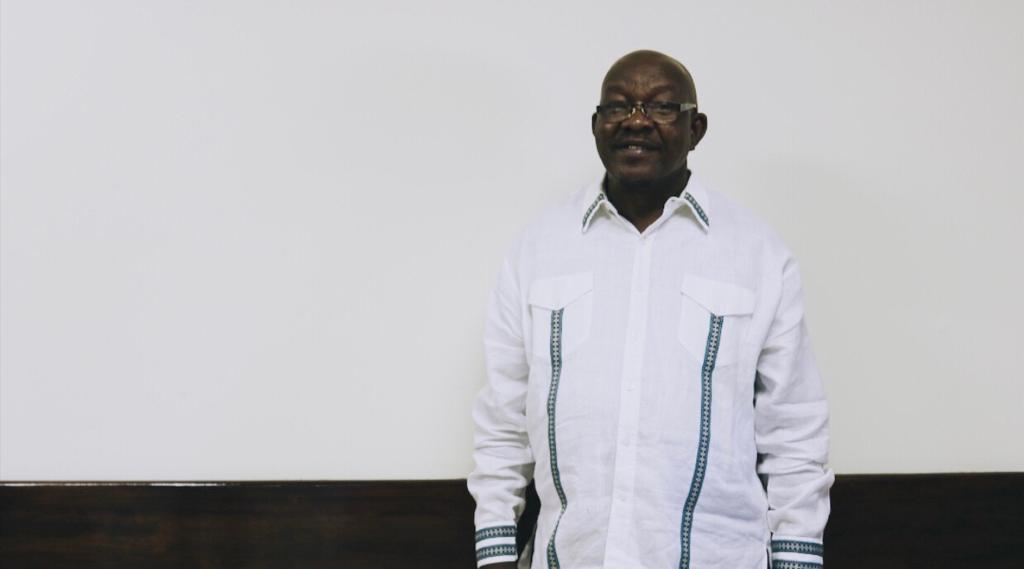
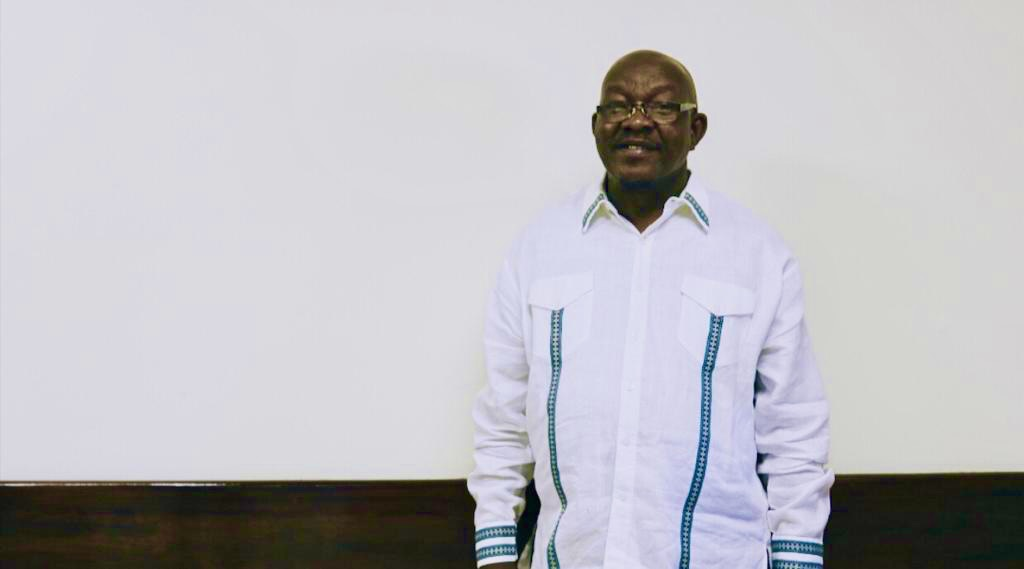
Website updates

diff --git a/index.html b/index.html
@@ -58,7 +58,7 @@
             </div>
             <h1 class="reveal reveal-delay-1">Your Health Is<br />Our Priority.</h1>
             <p class="hero-desc reveal reveal-delay-2">
-              Two clinics based in Thabong and Kutlwanong. One purpose. Mantwa Clinics serves the communities of Lejweleputswa District with honest, accessible care, for every patient.
+              Two clinics based in Thabong and Kutlwanong with one purpose. Mantwa Clinics serves the communities of Lejweleputswa District with honest, accessible care, for every patient.
             </p>
             <div class="hero-actions reveal reveal-delay-3">
               <a href="#services" class="btn btn-primary">Our Services <i class="fas fa-chevron-right"></i></a>
@@ -102,7 +102,7 @@
 
         <div class="about-quote-panel reveal">
           <p class="about-quote-text">
-            We are part of this community. Our patients are our priority at times.
+            We are part of this community. Our patients are our priority at all times.
           </p>
           <div class="about-quote-author">
             <div>
@@ -118,7 +118,7 @@
             <h2>Built for the people of Lejweleputswa District</h2>
           </div>
           <p class="reveal reveal-delay-1" style="margin-top:16px;">
-            Mantwa Clinics provides primary healthcare to the communities of Lejweleputswa District. Led by Dr. Malapa Modisane, both practices are built around one priority our patients.
+            Mantwa Clinics provides primary healthcare to the communities of Lejweleputswa District. Led by Dr. Malapa Modisane, both practices are built around one priority, our patients.
           </p>
           <p class="reveal reveal-delay-2">
             Consultations are thorough, care is accessible and affordable, the doors are open to everyone.
@@ -144,7 +144,7 @@
           <div class="value-row reveal">
             <div class="value-body">
               <h3>Integrity</h3>
-              <p>We are honest with our patients, every decision we make is based one integrity.</p>
+              <p>We are honest with our patients, every decision we make is based on integrity.</p>
             </div>
           </div>
           <div class="value-row reveal reveal-delay-1">
@@ -334,7 +334,7 @@
       <div class="footer-grid">
         <div class="footer-brand">
           <div class="logo">Mantwa <span style="color:rgba(255,255,255,0.8)">Clinics</span></div>
-          <p>Two clinics based in Thabong and Kutlwanong. One purpose. Mantwa Clinics serves the communities of Lejweleputswa District with honest, accessible care, for every patient.</p>
+          <p>Two clinics based in Thabong and Kutlwanong with one purpose. Mantwa Clinics serves the communities of Lejweleputswa District with honest, accessible care, for every patient.</p>
         </div>
 
         <div class="footer-col">